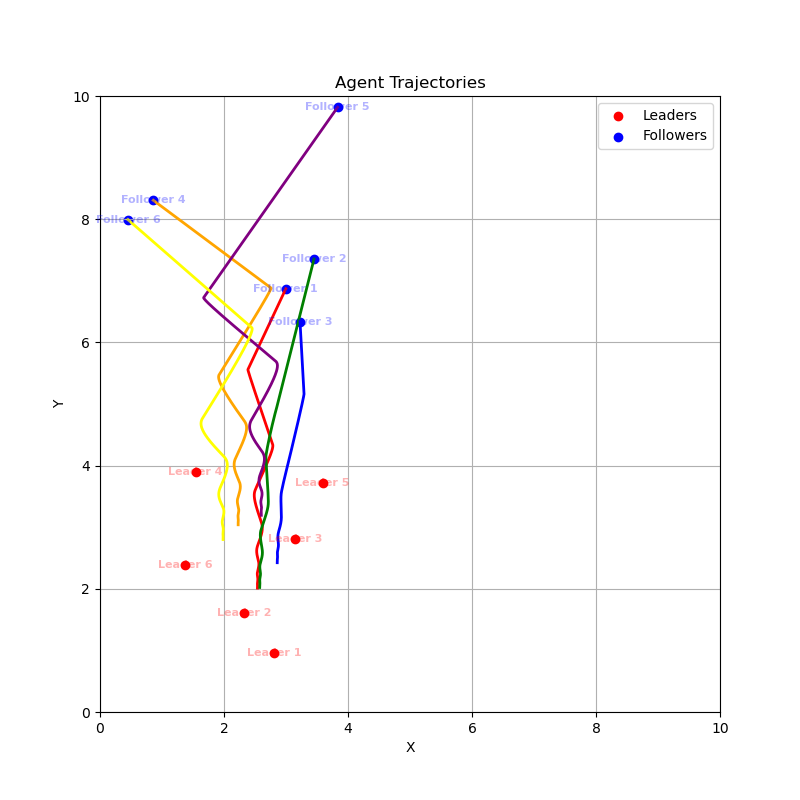
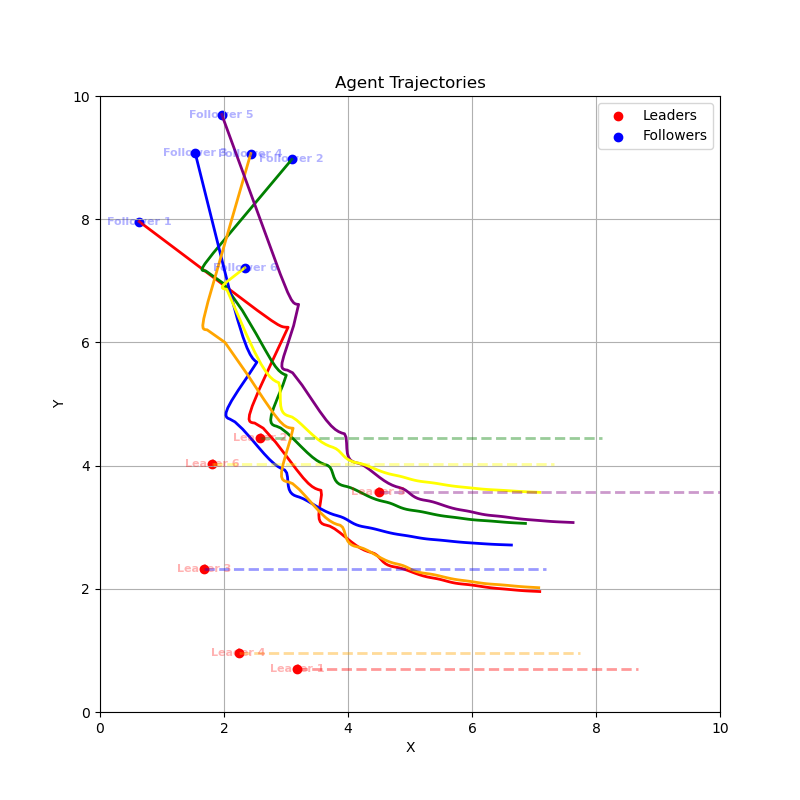
add containment file

diff --git a/containment/containment07领导者移动+时滞+不使用微分方程.py b/containment/containment07领导者移动+时滞+不使用微分方程.py
@@ -42,10 +42,10 @@ class LeaderAgent(Agent):
         self.index = index
     # 领导者轨迹
     def track_leader(self,iter):
-        aa = 0
-        bb = 0  # 领导者不动
-        # aa = (10-np.max(leader_positions[:,0]))/t_sum   # 走直线 走斜线 走sin线
-        # bb = 0 #走直线
+        # aa = 0
+        # bb = 0  # 领导者不动
+        aa = (10-np.max(leader_positions[:,0]))/t_sum   # 走直线 走斜线 走sin线
+        bb = 0 #走直线
         # bb = (10-np.max(leader_positions[:,1]))/t_sum    # 走斜线
         # bb = 2*self.position[1] *np.cos(2*iter/t_sum)                # 走sin线
         self.velocity = np.array([aa, bb])
@@ -57,13 +57,13 @@ a = 1
 b = 1
 
 t_sum = 20
-num_iterations = 800
+num_iterations = 100
 deltat = t_sum/num_iterations
 t_delay = 0.35
-linjie = 4*int(np.floor(t_delay/deltat))
+linjie = 8*int(np.floor(t_delay/deltat))+1
 # 每个机器人时滞的步长
 tau_follower = [linjie, linjie, linjie, linjie, linjie, linjie]
-tau_leader = [0,0,0,0,0,0]
+tau_leader =  [1,1,1,1,1,1]
 # [1,2,3,4,1,2] [5,5,5,5,5,5] [4,4,4,4,4,4] [3,3,3,3,3,3] [2,2,2,2,2,2] [1,1,1,1,1,1] 
 # [1,2,3,1,1,2]
 
@@ -182,35 +182,35 @@ plt.title('Agent Trajectories')
 plt.legend()
 plt.grid()
 plt.savefig('agent_trajectories.png')
-plt.show()
+# plt.show()
 
-# # 制作动画
-# def update(frame):
-#     follower_positions=follower_positions_history[frame].reshape([num_followers, 2])
-#     leader_positions=leader_positions_history[frame].reshape([num_leaders, 2])
+# 制作动画
+def update(frame):
+    follower_positions=follower_positions_history[frame].reshape([num_followers, 2])
+    leader_positions=leader_positions_history[frame].reshape([num_leaders, 2])
 
-#     leader_scatter.set_offsets(leader_positions)
-#     follower_scatter.set_offsets(follower_positions)
+    leader_scatter.set_offsets(leader_positions)
+    follower_scatter.set_offsets(follower_positions)
 
-#     # Update labels
-#     for i in range(num_leaders):
-#         leader_labels[i].set_position((leader_positions[i, 0] + 0.8, leader_positions[i, 1] + 0.1))
-#     for i in range(num_followers):
-#         follower_labels[i].set_position((follower_positions[i, 0] + 0.8, follower_positions[i, 1] + 0.1))
+    # Update labels
+    for i in range(num_leaders):
+        leader_labels[i].set_position((leader_positions[i, 0] + 0.8, leader_positions[i, 1] + 0.1))
+    for i in range(num_followers):
+        follower_labels[i].set_position((follower_positions[i, 0] + 0.8, follower_positions[i, 1] + 0.1))
 
-#     # Calculate the convex hull for leaders only
-#     hull = ConvexHull(leader_positions)
-#     hull_vertices = np.append(hull.vertices, hull.vertices[0])  # Closing the hull by connecting the first vertex again
-#     hull_line.set_xdata(leader_positions[hull_vertices, 0])
-#     hull_line.set_ydata(leader_positions[hull_vertices, 1])
+    # Calculate the convex hull for leaders only
+    hull = ConvexHull(leader_positions)
+    hull_vertices = np.append(hull.vertices, hull.vertices[0])  # Closing the hull by connecting the first vertex again
+    hull_line.set_xdata(leader_positions[hull_vertices, 0])
+    hull_line.set_ydata(leader_positions[hull_vertices, 1])
 
-#     return leader_scatter, follower_scatter, hull_line, *leader_labels, *follower_labels
+    return leader_scatter, follower_scatter, hull_line, *leader_labels, *follower_labels
 
-# # Create the animation
-# ani = animation.FuncAnimation(fig, update, frames=num_iterations, interval=0.5*t_sum/num_iterations, blit=True)
+# Create the animation
+ani = animation.FuncAnimation(fig, update, frames=num_iterations, interval=0.5*t_sum/num_iterations, blit=True)
 
-# # Save the animation as a gif
-# ani.save('agent_trajectories.gif', writer='pillow')
+# Save the animation as a gif
+ani.save('agent_trajectories.gif', writer='pillow')
 
 
 
